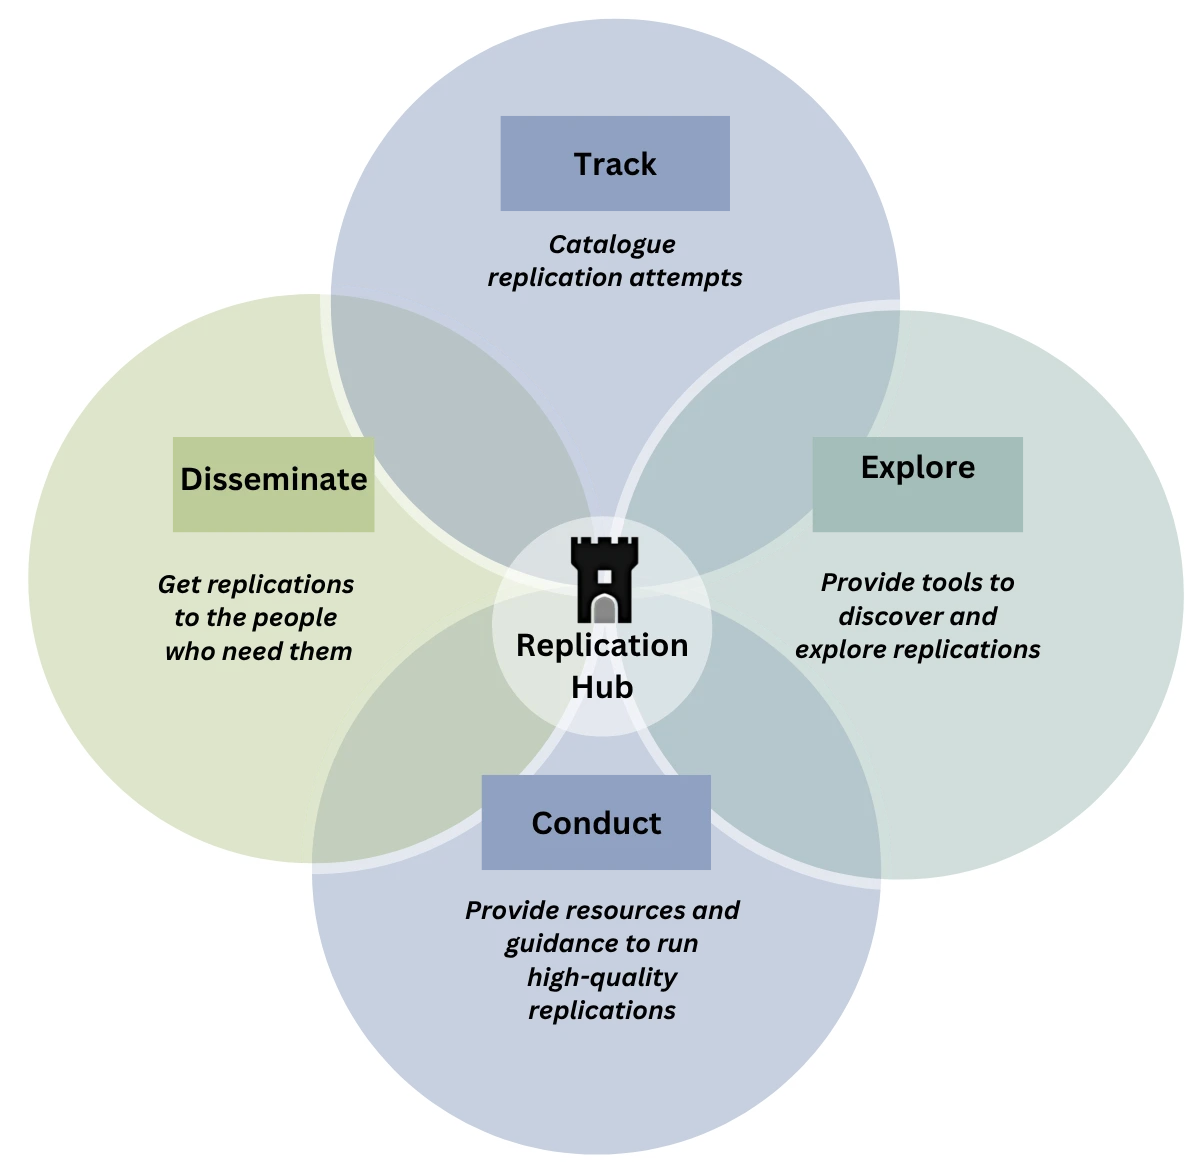
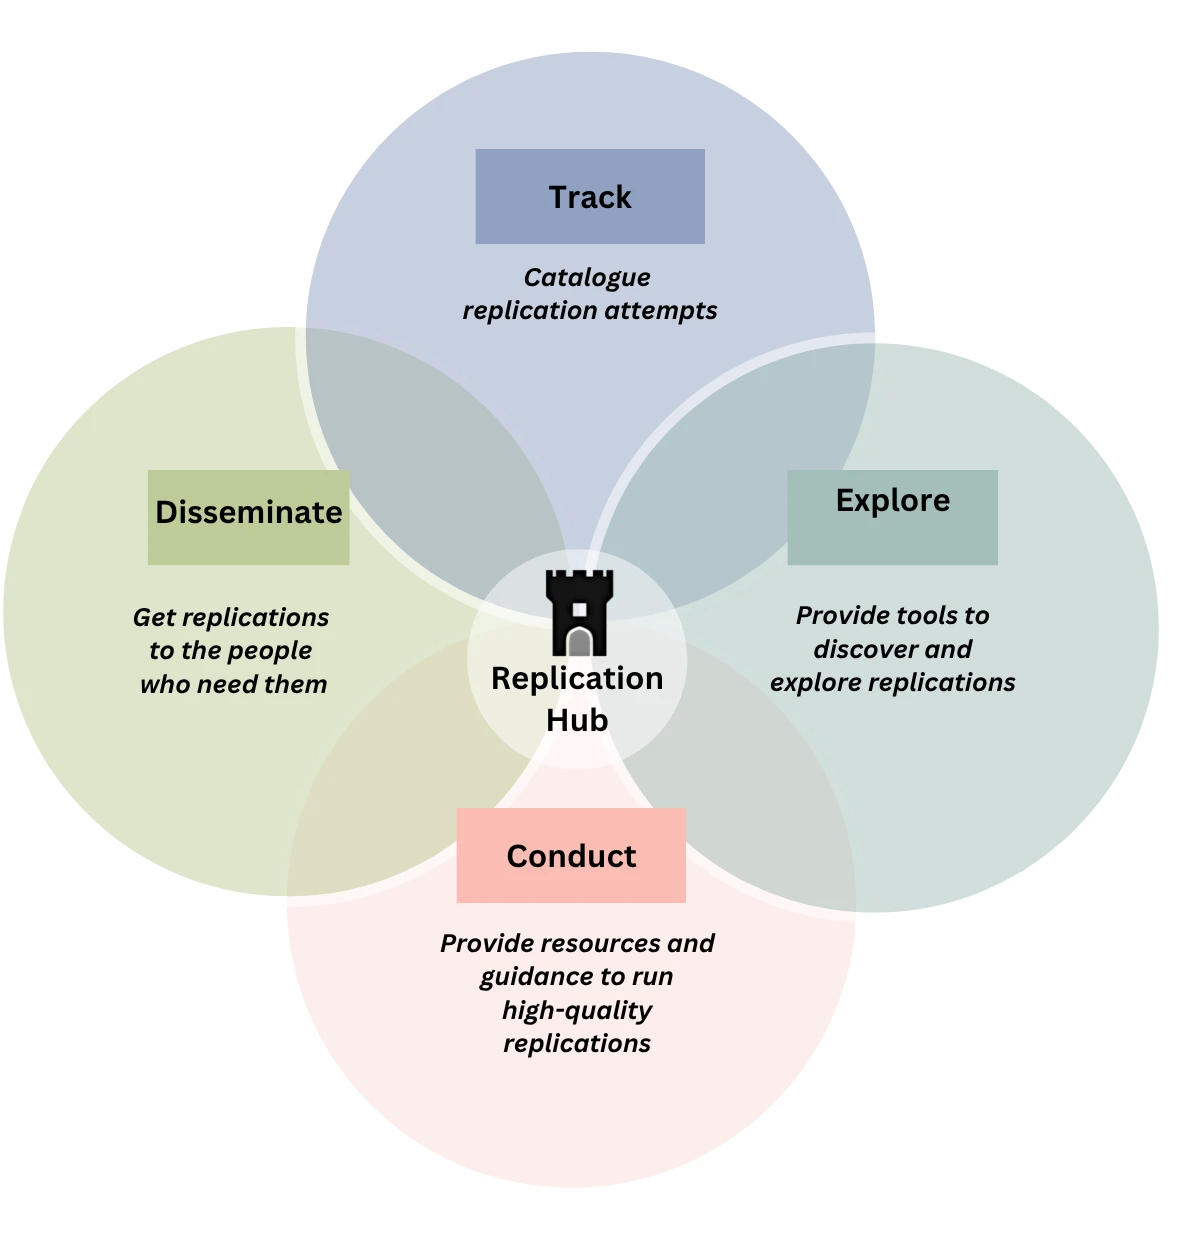
Update Replication Hub image and Conduct card color to salmon
New diagram with salmon/pink Conduct area, cropped to match original
dimensions. Fix R2 abbreviation (was incorrectly RR).

diff --git a/assets/scss/custom.scss b/assets/scss/custom.scss
@@ -1875,14 +1875,14 @@ h1.clusters-site-heading.clusters-hub-page__title {
 .rephub-card--explore .rephub-card__links li::before { color: #7FA098; }
 .rephub-card--explore .rephub-card__links a { color: #5a7e74; }
 
-/* Conduct – periwinkle blue */
+/* Conduct – salmon/pink */
 .rephub-card--conduct {
-  background: linear-gradient(135deg, #e8ecf5 0%, #f2f4fb 100%);
-  border-top: 4px solid #8B9FC0;
+  background: linear-gradient(135deg, #f5e8e6 0%, #fbf2f1 100%);
+  border-top: 4px solid #D4908A;
 }
-.rephub-card--conduct .rephub-card__header { background: #8B9FC0; }
-.rephub-card--conduct .rephub-card__links li::before { color: #8B9FC0; }
-.rephub-card--conduct .rephub-card__links a { color: #66799e; }
+.rephub-card--conduct .rephub-card__header { background: #D4908A; }
+.rephub-card--conduct .rephub-card__links li::before { color: #D4908A; }
+.rephub-card--conduct .rephub-card__links a { color: #a5635d; }
 
 /* Disseminate – olive green */
 .rephub-card--disseminate {

diff --git a/content/replication-hub/_index.md b/content/replication-hub/_index.md
@@ -73,9 +73,9 @@ cards:
       led by a group of experts, FORRT supports all researchers in publishing
       high-quality repetitions.
     links:
-      - text: "Replication Research (RR) Diamond Open Access Journal"
+      - text: "Replication Research (R2) Diamond Open Access Journal"
         url: "http://replicationresearch.org"
-      - text: "RR Mentorship Program"
+      - text: "R2 Mentorship Program"
         url: "https://ejournals.uni-muenster.de/replicationresearch/mentorshipprogram"
       - text: "Replication Journal Federation"
         url: "/rjf"
